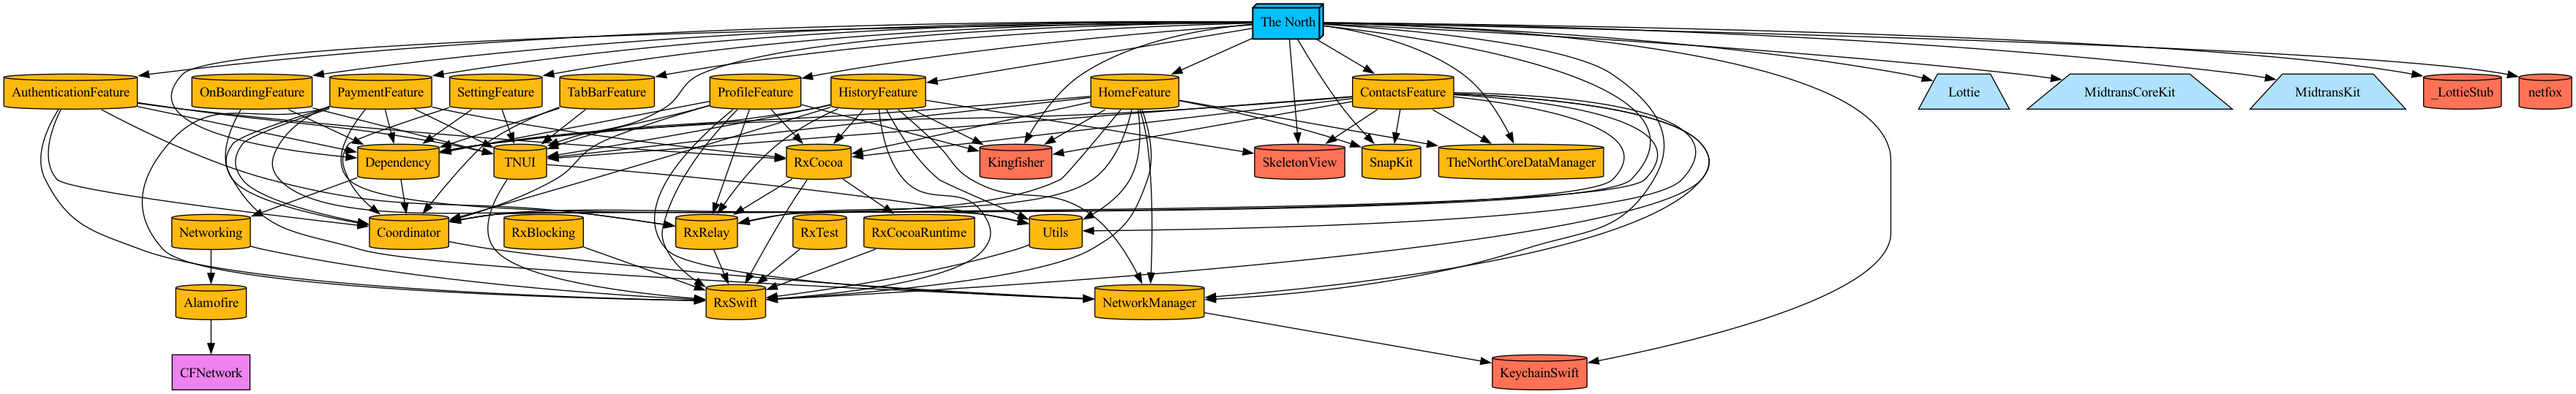
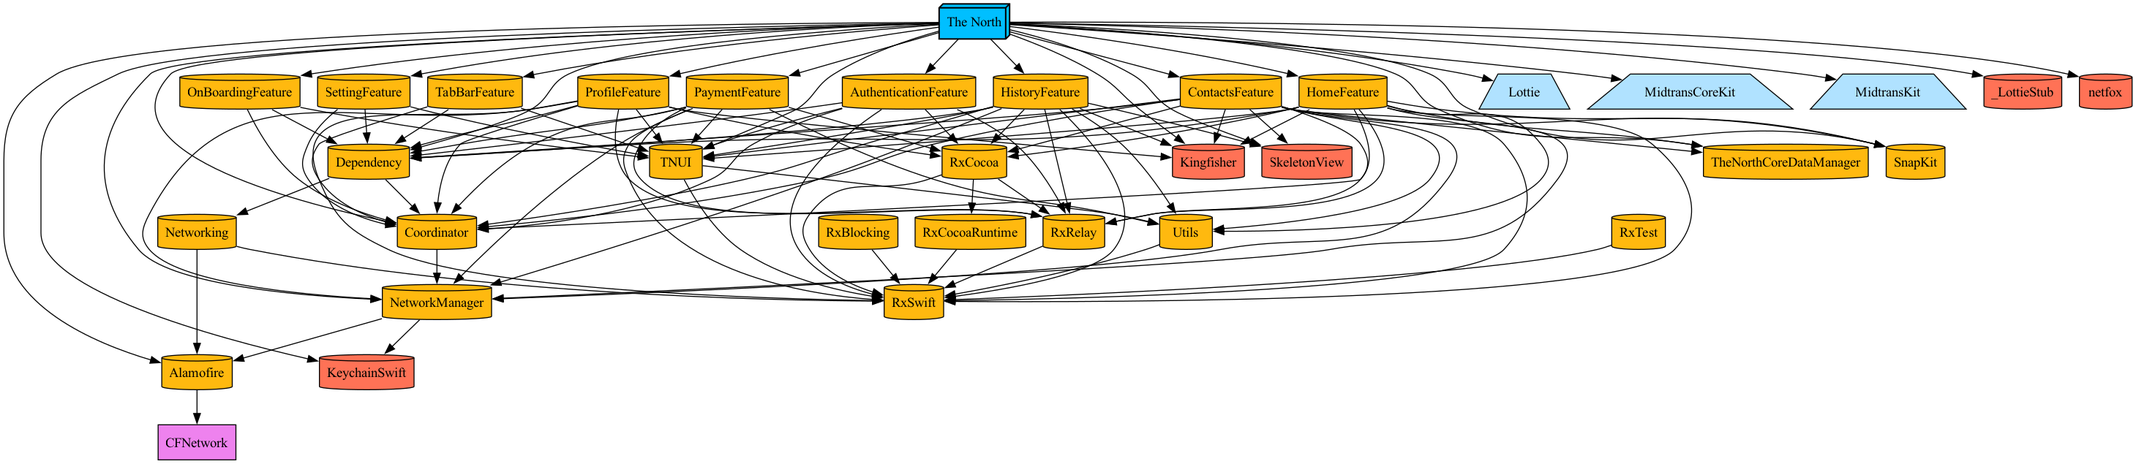
adding another gif for readme

diff --git a/Project.swift b/Project.swift
@@ -27,7 +27,8 @@ let project = Project(
               .target(name: "NetworkManager"),
               .external(name: "Kingfisher"),
               .external(name: "SkeletonView"),
-              .external(name: "SnapKit")
+              .external(name: "SnapKit"),
+              .external(name: "Alamofire")
              ]),
     
     //MARK: Foundations
@@ -80,7 +81,10 @@ let project = Project(
     .framework("NetworkManager",
                sources: ["Foundations/NetworkManager/**/*.swift"],
                resources: [],
-               dependencies: [.external(name: "KeychainSwift")]
+               dependencies: [
+                .external(name: "KeychainSwift"),
+                .external(name: "Alamofire")
+               ]
               ),
     //MARK: Features
     .framework("AuthenticationFeature",
@@ -213,7 +217,6 @@ let project = Project(
                 .target(name: "Dependency"),
                 .target(name: "Coordinator"),
                ]),
-    
     //     diaktifkan kalau perlu test
     //    .target(
     //      name: "\(appName)Tests",

diff --git a/Features/ContactsFeature/Sources/ContactDetail/ContactDetailViewController.swift b/Features/ContactsFeature/Sources/ContactDetail/ContactDetailViewController.swift
@@ -36,6 +36,10 @@ class ContactDetailViewController: UIViewController {
     fatalError("init(coder:) has not been implemented")
   }
   
+  
+  deinit {
+    print("contact detail")
+  }
   // MARK: - Lifecycle
   override func viewDidLoad() {
     super.viewDidLoad()
